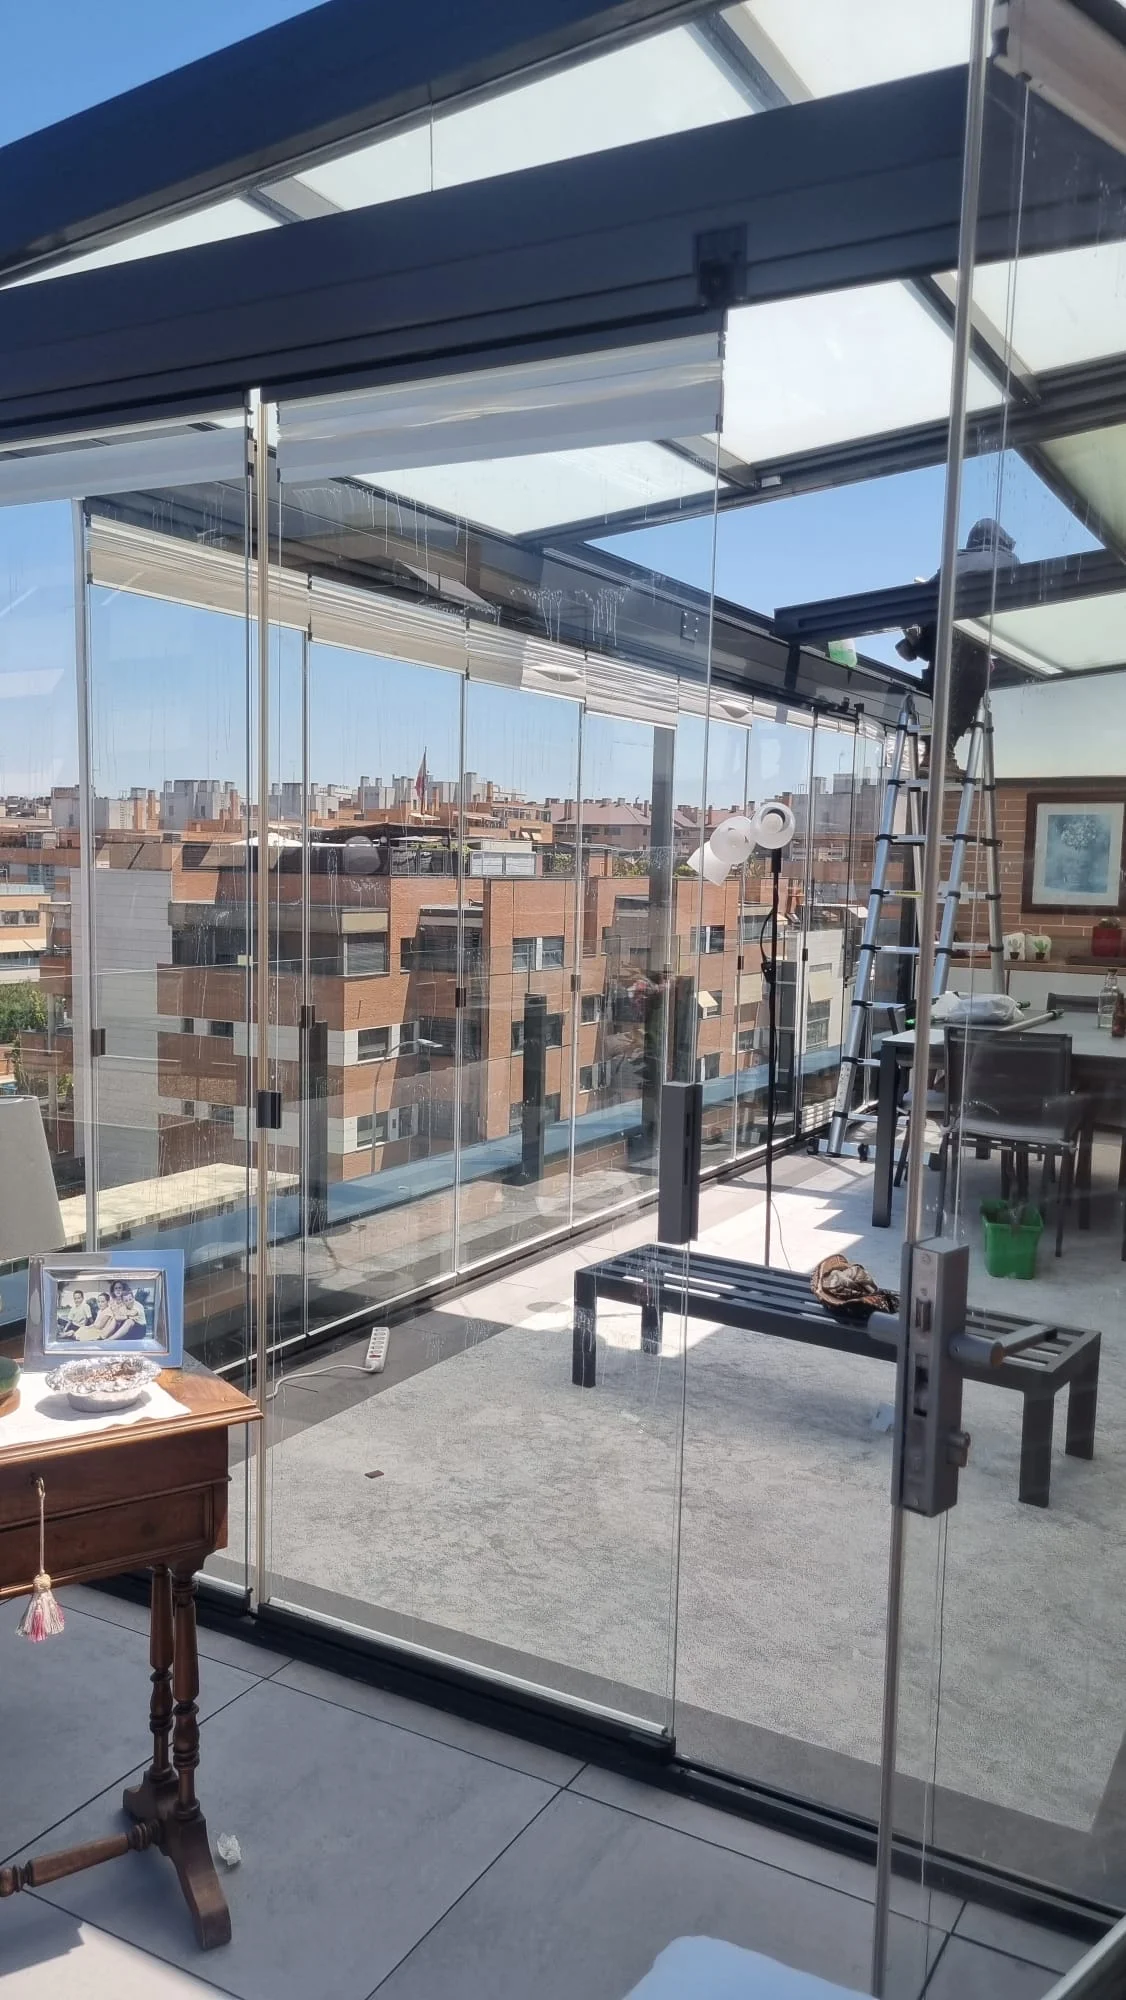
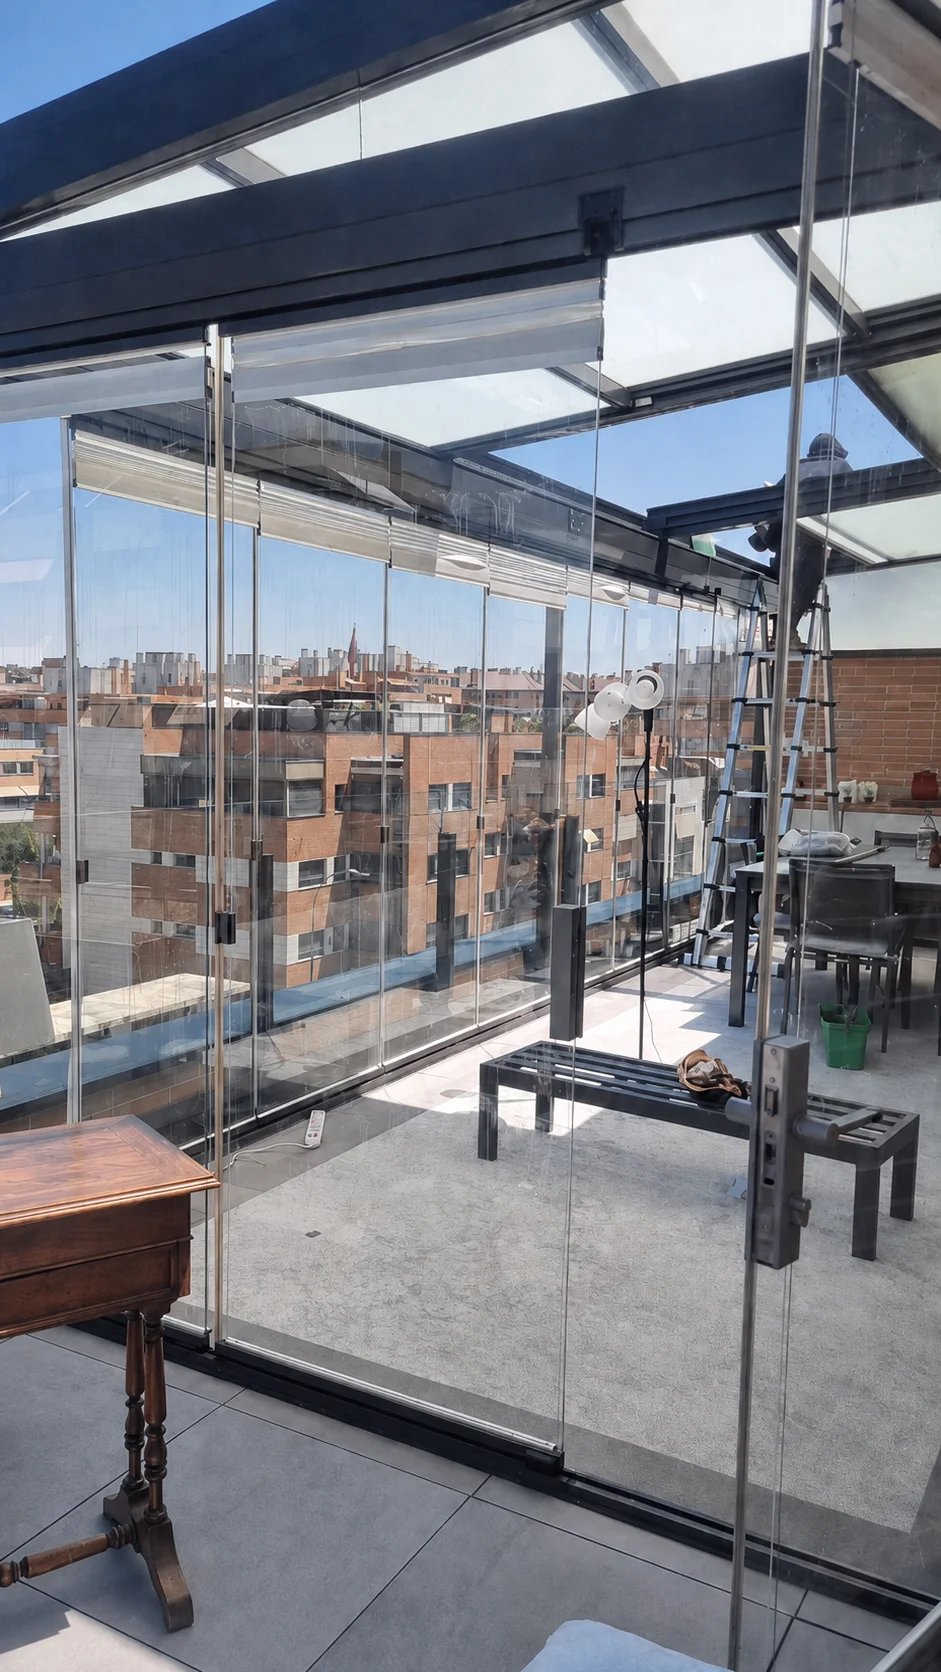
feat: button whatsapp + landing pages finished

diff --git a/src/components/layout/WhatsAppFloat.css b/src/components/layout/WhatsAppFloat.css
@@ -1,0 +1,180 @@
+/* Botón flotante de WhatsApp: presente en todas las páginas.
+   En escritorio el CTA ya vive en el header; aquí lo importante es el móvil,
+   donde el usuario no tiene ese botón a mano mientras hace scroll. */
+.wa-float {
+  position: fixed;
+  right: clamp(1rem, 3vw, 1.75rem);
+  bottom: calc(clamp(1rem, 3vw, 1.75rem) + env(safe-area-inset-bottom, 0px));
+  z-index: 90;
+
+  /* Oculto hasta que el componente lo activa tras el retardo inicial */
+  opacity: 0;
+  visibility: hidden;
+  transform: translateY(14px) scale(0.9);
+  transition: opacity var(--transition-slow), transform var(--transition-slow), visibility var(--transition-slow);
+}
+
+.wa-float--visible {
+  opacity: 1;
+  visibility: visible;
+  transform: none;
+}
+
+.wa-float__link {
+  display: flex;
+  align-items: center;
+  justify-content: flex-end;
+  text-decoration: none;
+  -webkit-tap-highlight-color: transparent;
+  transition: transform var(--transition);
+}
+
+/* Etiqueta CTA */
+.wa-float__label {
+  max-width: 0;
+  padding: 0;
+  margin-right: 0;
+  opacity: 0;
+  overflow: hidden;
+  pointer-events: none;
+
+  display: flex;
+  align-items: center;
+  justify-content: center;
+
+  font-family: var(--font-body);
+  font-size: 0.82rem;
+  font-weight: 600;
+  line-height: 1.3;
+  color: var(--color-primary);
+  text-align: center;
+
+  background: var(--color-white);
+  border: 1px solid var(--color-border);
+  border-radius: 999px;
+  box-shadow: var(--shadow-card);
+
+  white-space: nowrap;
+
+  transition:
+    max-width var(--transition-slow),
+    opacity var(--transition-slow),
+    padding var(--transition-slow),
+    margin var(--transition-slow);
+}
+
+.wa-float--label-open .wa-float__label,
+.wa-float__link:focus-visible .wa-float__label {
+  max-width: 17rem;
+  padding: 0.65rem 1.25rem;
+  margin-right: 0.75rem;
+  opacity: 1;
+}
+
+/* Botón circular */
+.wa-float__icon {
+  position: relative;
+  flex-shrink: 0;
+  display: grid;
+  place-items: center;
+  width: 58px;
+  height: 58px;
+  border-radius: 50%;
+  background: #25d366;
+  color: #fff;
+  box-shadow: 0 8px 24px rgba(37, 211, 102, 0.4), 0 2px 8px rgba(26, 39, 68, 0.18);
+  transition: background var(--transition), transform var(--transition), box-shadow var(--transition);
+}
+
+/* Halo que late suavemente para atraer la mirada sin resultar intrusivo */
+.wa-float__icon::before {
+  content: '';
+  position: absolute;
+  inset: -2px;
+  border-radius: 50%;
+  border: 2px solid #25d366;
+  pointer-events: none;
+  animation: wa-pulse 2.6s ease-out infinite;
+}
+
+@keyframes wa-pulse {
+  0% { transform: scale(1); opacity: 0.55; }
+  70% { transform: scale(1.5); opacity: 0; }
+  100% { transform: scale(1.5); opacity: 0; }
+}
+
+.wa-float__link:active {
+  transform: scale(0.95);
+}
+
+.wa-float__link:focus-visible {
+  outline: none;
+}
+
+.wa-float__link:focus-visible .wa-float__icon {
+  outline: 3px solid var(--color-accent);
+  outline-offset: 3px;
+}
+
+/* Solo en dispositivos con puntero: al pasar el ratón se despliega la etiqueta */
+@media (hover: hover) {
+  .wa-float__link:hover .wa-float__label {
+    max-width: 17rem;
+    padding: 0.65rem 1.25rem;
+    margin-right: 0.75rem;
+    opacity: 1;
+  }
+
+  .wa-float__link:hover .wa-float__icon {
+    background: #1ebe5d;
+    transform: translateY(-2px);
+    box-shadow:
+      0 12px 28px rgba(37, 211, 102, 0.48),
+      0 2px 8px rgba(26, 39, 68, 0.2);
+  }
+}
+
+/* Móvil: botón algo menor y etiqueta más compacta (puede ocupar dos líneas) */
+@media (max-width: 640px) {
+  .wa-float__icon {
+    width: 54px;
+    height: 54px;
+  }
+
+  .wa-float__icon svg {
+    width: 27px;
+    height: 27px;
+  }
+
+  .wa-float__label {
+    font-size: 0.76rem;
+    white-space: normal;
+    text-align: center;
+  }
+
+  .wa-float--label-open .wa-float__label,
+  .wa-float__link:focus-visible .wa-float__label {
+    max-width: 12.5rem;
+    padding: 0.55rem 0.9rem;
+    border-radius: var(--radius-lg);
+  }
+}
+
+/* Pantallas muy estrechas: no hay espacio digno para el texto, solo el botón */
+@media (max-width: 359px) {
+  .wa-float__label {
+    display: none;
+  }
+}
+
+@media (prefers-reduced-motion: reduce) {
+  .wa-float,
+  .wa-float__label,
+  .wa-float__icon {
+    transition: none;
+  }
+
+  .wa-float__icon::before {
+    animation: none;
+  }
+}

diff --git a/src/pages/landings/LimpiezaCristalesMadridPage.jsx b/src/pages/landings/LimpiezaCristalesMadridPage.jsx
@@ -6,7 +6,6 @@ import { WHATSAPP_URL, PHONE_DISPLAY } from '../../utils/constants';
 import heroImg from '../../assets/cristales/cristalera4.webp';
 import aticoImg from '../../assets/cristales/cristalera2.webp';
 import escaparateImg from '../../assets/escaparates/escaparate-calle.webp';
-import lucernarioImg from '../../assets/fachadas/fachada-acristalada.webp';
 import calleImg from '../../assets/fachadas/fachadaAcristalada.webp';
 import './LimpiezaCristalesMadridPage.css';
 
@@ -23,7 +22,7 @@ const jsonLd = [
     serviceType: 'Limpieza profesional de cristales',
     name: 'Limpieza de cristales en Madrid',
     description:
-      'Limpieza profesional de cristales, escaparates, cerramientos de ático, lucernarios y fachadas acristaladas en todo Madrid, con medios adaptados al acceso de cada edificio.',
+    'Limpieza profesional de cristales, escaparates, cerramientos, ventanales y cristales de difícil acceso en Madrid, con medios adaptados a las características de cada trabajo.',
     url: `${SITE_URL}${PATH}`,
     provider: { '@id': `${SITE_URL}/#business` },
     areaServed: { '@type': 'City', name: 'Madrid' },
@@ -71,15 +70,7 @@ const tipologias = [
     imagen: escaparateImg,
     alt: 'Escaparate de una clínica dental a pie de calle con el tráfico reflejado en el cristal',
     texto:
-      'Un escaparate en un eje de tráfico como Alcalá, Bravo Murillo o Príncipe de Vergara se ensucia varias veces más rápido que el mismo escaparate en una calle peatonal de Malasaña. La periodicidad no puede ser la misma.',
-  },
-  {
-    id: 'lucernarios',
-    titulo: 'Lucernarios y atrios',
-    imagen: lucernarioImg,
-    alt: 'Lucernario acristalado de gran superficie sobre el atrio interior de un edificio',
-    texto:
-      'Portales con cubierta de vidrio, atrios de oficinas y galerías comerciales. Son superficies grandes, en horizontal y con muy mal acceso, donde la suciedad se acumula sin que nadie la vea hasta que la luz baja de golpe.',
+    'Un escaparate limpio transmite cuidado, profesionalidad y buena imagen desde el primer vistazo. Trabajamos sobre cristaleras comerciales de distintos tamaños, cuidando el acabado para conseguir una superficie uniforme, transparente y sin marcas.',
   },
 ];
 
@@ -102,7 +93,7 @@ const faqs = [
   {
     pregunta: '¿Trabajáis con comunidades de propietarios y administradores?',
     respuesta:
-      'Sí, es una parte importante de lo que hacemos en Madrid capital: portales acristalados, puertas de acceso, lucernarios de patio y ventanas de zonas comunes. Damos un presupuesto por escrito con precio cerrado por visita, que es lo que necesita cualquier administrador para llevarlo a junta.',
+      'Sí, es una parte importante de lo que hacemos en Madrid capital: portales acristalados, puertas de acceso y ventanas de zonas comunes. Damos un presupuesto por escrito con precio cerrado por visita, que es lo que necesita cualquier administrador para llevarlo a junta.',
   },
   {
     pregunta: '¿Por qué mis cristales quedan con marcas aunque los limpie?',
@@ -120,7 +111,7 @@ export default function LimpiezaCristalesMadridPage() {
     <main className="crismad-page">
       <Seo
         title="Empresa de limpieza de cristales en Madrid | Kristalia"
-        description="Empresa de limpieza de cristales en Madrid capital: escaparates, oficinas, comunidades, áticos y lucernarios. Trabajo en altura. Presupuesto gratis."
+        description="Limpieza profesional de cristales, escaparates, cerramientos, ventanales y cristales de difícil acceso en Madrid, con medios adaptados a las características de cada trabajo."
         path={PATH}
         image="/og-image.jpg"
         jsonLd={jsonLd}
@@ -150,8 +141,9 @@ export default function LimpiezaCristalesMadridPage() {
           </h1>
 
           <p className="crismad-hero__subtitle">
-            Trabajamos solo en Madrid y solo con cristal. Escaparates, oficinas,
-            comunidades, cerramientos de ático y lucernarios.
+            Especialistas en limpieza profesional de cristales para viviendas,
+            comunidades, oficinas y locales. Desde escaparates y ventanales hasta
+            cerramientos y cristales de difícil acceso.
           </p>
 
           <div className="crismad-hero__actions">

diff --git a/src/components/layout/WhatsAppFloat.jsx b/src/components/layout/WhatsAppFloat.jsx
@@ -1,0 +1,57 @@
+import { useEffect, useState } from 'react';
+import { WHATSAPP_URL } from '../../utils/constants';
+import './WhatsAppFloat.css';
+
+// Retardo antes de mostrar el botón: evita que aparezca encima del hero
+// nada más entrar y que compita con la primera impresión de la página.
+const APPEAR_DELAY = 1200;
+
+// La etiqueta se muestra sola unos segundos a modo de CTA y luego se repliega,
+// para no tapar contenido mientras el usuario navega (sobre todo en móvil).
+const LABEL_DELAY = 2000;
+const LABEL_DURATION = 7000;
+
+export default function WhatsAppFloat() {
+  const [visible, setVisible] = useState(false);
+  const [labelOpen, setLabelOpen] = useState(false);
+
+  useEffect(() => {
+    const showBtn = setTimeout(() => setVisible(true), APPEAR_DELAY);
+    const showLabel = setTimeout(() => setLabelOpen(true), LABEL_DELAY);
+    const hideLabel = setTimeout(() => setLabelOpen(false), LABEL_DELAY + LABEL_DURATION);
+
+    return () => {
+      clearTimeout(showBtn);
+      clearTimeout(showLabel);
+      clearTimeout(hideLabel);
+    };
+  }, []);
+
+  const className = [
+    'wa-float',
+    visible ? 'wa-float--visible' : '',
+    labelOpen ? 'wa-float--label-open' : '',
+  ].filter(Boolean).join(' ');
+
+  return (
+    <div className={className}>
+      <a
+        className="wa-float__link"
+        href={WHATSAPP_URL}
+        target="_blank"
+        rel="noopener noreferrer"
+        aria-label="Pide presupuesto rápido por WhatsApp"
+      >
+        <span className="wa-float__label" aria-hidden="true">
+          Pide tu presupuesto por WhatsApp
+        </span>
+
+        <span className="wa-float__icon">
+          <svg width="30" height="30" viewBox="0 0 24 24" fill="currentColor" aria-hidden="true">
+            <path d="M17.472 14.382c-.297-.149-1.758-.867-2.03-.967-.273-.099-.471-.148-.67.15-.197.297-.767.966-.94 1.164-.173.199-.347.223-.644.075-.297-.15-1.255-.463-2.39-1.475-.883-.788-1.48-1.761-1.653-2.059-.173-.297-.018-.458.13-.606.134-.133.298-.347.446-.52.149-.174.198-.298.298-.497.099-.198.05-.371-.025-.52-.075-.149-.669-1.612-.916-2.207-.242-.579-.487-.5-.669-.51-.173-.008-.371-.01-.57-.01-.198 0-.52.074-.792.372-.272.297-1.04 1.016-1.04 2.479 0 1.462 1.065 2.875 1.213 3.074.149.198 2.096 3.2 5.077 4.487.709.306 1.262.489 1.694.625.712.227 1.36.195 1.871.118.571-.085 1.758-.719 2.006-1.413.248-.694.248-1.289.173-1.413-.074-.124-.272-.198-.57-.347m-5.421 7.403h-.004a9.87 9.87 0 01-5.031-1.378l-.361-.214-3.741.982.998-3.648-.235-.374a9.86 9.86 0 01-1.51-5.26c.001-5.45 4.436-9.884 9.888-9.884 2.64 0 5.122 1.03 6.988 2.898a9.825 9.825 0 012.893 6.994c-.003 5.45-4.437 9.884-9.885 9.884m8.413-18.297A11.815 11.815 0 0012.05 0C5.495 0 .16 5.335.157 11.892c0 2.096.547 4.142 1.588 5.945L.057 24l6.305-1.654a11.882 11.882 0 005.683 1.448h.005c6.554 0 11.89-5.335 11.893-11.893A11.821 11.821 0 0020.885 3.49" />
+          </svg>
+        </span>
+      </a>
+    </div>
+  );
+}

diff --git a/src/pages/landings/EmpresaLimpiezaMadridPage.jsx b/src/pages/landings/EmpresaLimpiezaMadridPage.jsx
@@ -82,7 +82,7 @@ const serviciosPrincipales = [
     imagen: alturaImg,
     alt: 'Ventanal situado a gran altura sobre un espacio interior de doble altura con barandilla de vidrio',
     texto:
-      'Fachadas acristaladas, lucernarios, patios interiores y ventanales a los que no se llega desde el suelo. Según el edificio se resuelve con pértiga telescópica de agua osmotizada, plataforma elevadora o acceso desde cubierta.',
+      'Fachadas acristaladas, patios interiores y ventanales a los que no se llega desde el suelo. Según el edificio se resuelve con pértiga telescópica de agua osmotizada, plataforma elevadora o acceso desde cubierta.',
   },
   {
     id: 'paneles',

diff --git a/src/App.jsx b/src/App.jsx
@@ -2,6 +2,7 @@ import { lazy, Suspense } from 'react';
 import { Routes, Route } from 'react-router-dom';
 import Header from './components/layout/Header';
 import Footer from './components/layout/Footer';
+import WhatsAppFloat from './components/layout/WhatsAppFloat';
 import HomePage from './pages/HomePage';
 import QuienesSomosPage from './pages/QuienesSomosPage';
 import AvisoLegalPage from './pages/legal/AvisoLegalPage';
@@ -40,6 +41,7 @@ export default function App() {
         </Suspense>
       </div>
       <Footer />
+      <WhatsAppFloat />
     </>
   );
 }
